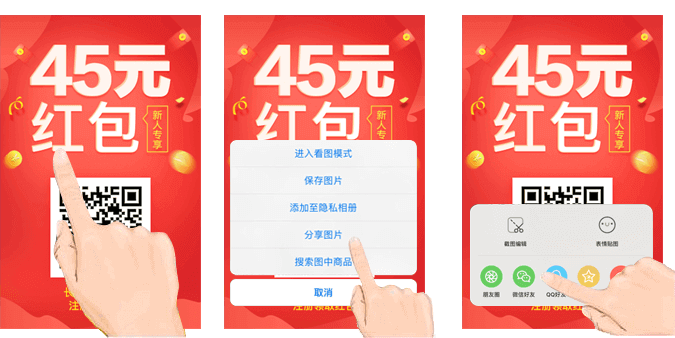
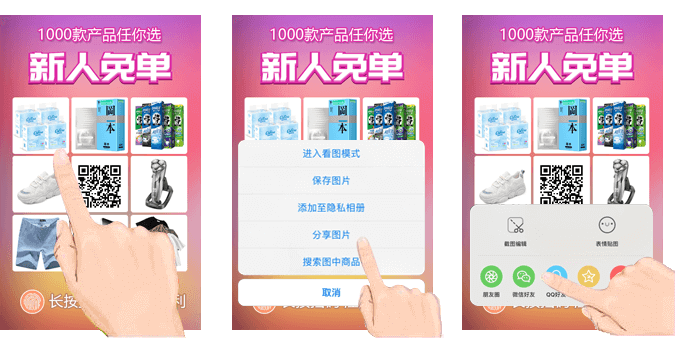
update text + share

diff --git a/resources/views/staradmin/client/share.blade.php b/resources/views/staradmin/client/share.blade.php
@@ -435,9 +435,9 @@ h1:after {
   /*left: -5px; top: 141px;*/
   z-index: 1;
   overflow: hidden;
-  width: 35%; height: 15%;
+  width: 2.5rem; height: 1.5rem;
   /*text-align: right;*/
-	margin-left:0.79rem;
+	margin-left:0.88rem;
 }
 .ribbon span {
   margin:0.2rem;
@@ -498,7 +498,26 @@ h1:after {
   width: 55%;
 }	
 	
-	
+  @media only screen and (min-width: 300px) { .ribbon { margin-left: 0.71rem !important; } }
+
+@media only screen and (min-width: 350px) { .ribbon { margin-left: 0.74rem !important; } }
+
+@media only screen and (min-width: 370px) { .ribbon { margin-left: 0.75rem !important; } }
+
+@media only screen and (min-width: 400px) { .ribbon { margin-left: 0.88rem !important; } }
+
+@media only screen and (min-width: 410px) { .ribbon { margin-left: 0.78rem !important; } }
+
+@media only screen and (min-width: 500px) { .ribbon { margin-left: 0.88rem !important; } }
+
+@media only screen and (min-width: 700px) { .ribbon { margin-left: 0.91rem !important; } }
+
+@media only screen and (min-width: 900px) { .ribbon { margin-left: 2.5rem !important; } }
+
+@media only screen and (min-width: 950px) { .ribbon { margin-left: 2rem !important; } }
+
+@media only screen and (min-width: 1100px) { .ribbon { margin-left: 3rem !important; } }
+
 	 </style>
 <div class="container">
 

diff --git a/resources/views/staradmin/client/home3.blade.php b/resources/views/staradmin/client/home3.blade.php
@@ -248,7 +248,7 @@
 										</span>
 										<ul style="color: #a8adaa;">
 											<li> • 30元、50元、100元任你领！</li>
-											<li> • 新人注册就送3次猜猜乐（最多赚45元）</li> 
+											<li> • 新人注册就送3次玩赚免单（最多赚45元）</li> 
 											<li> • 分享给好友赚更多</li>
 										</ul>
 										<span style="font-weight: bold;">
